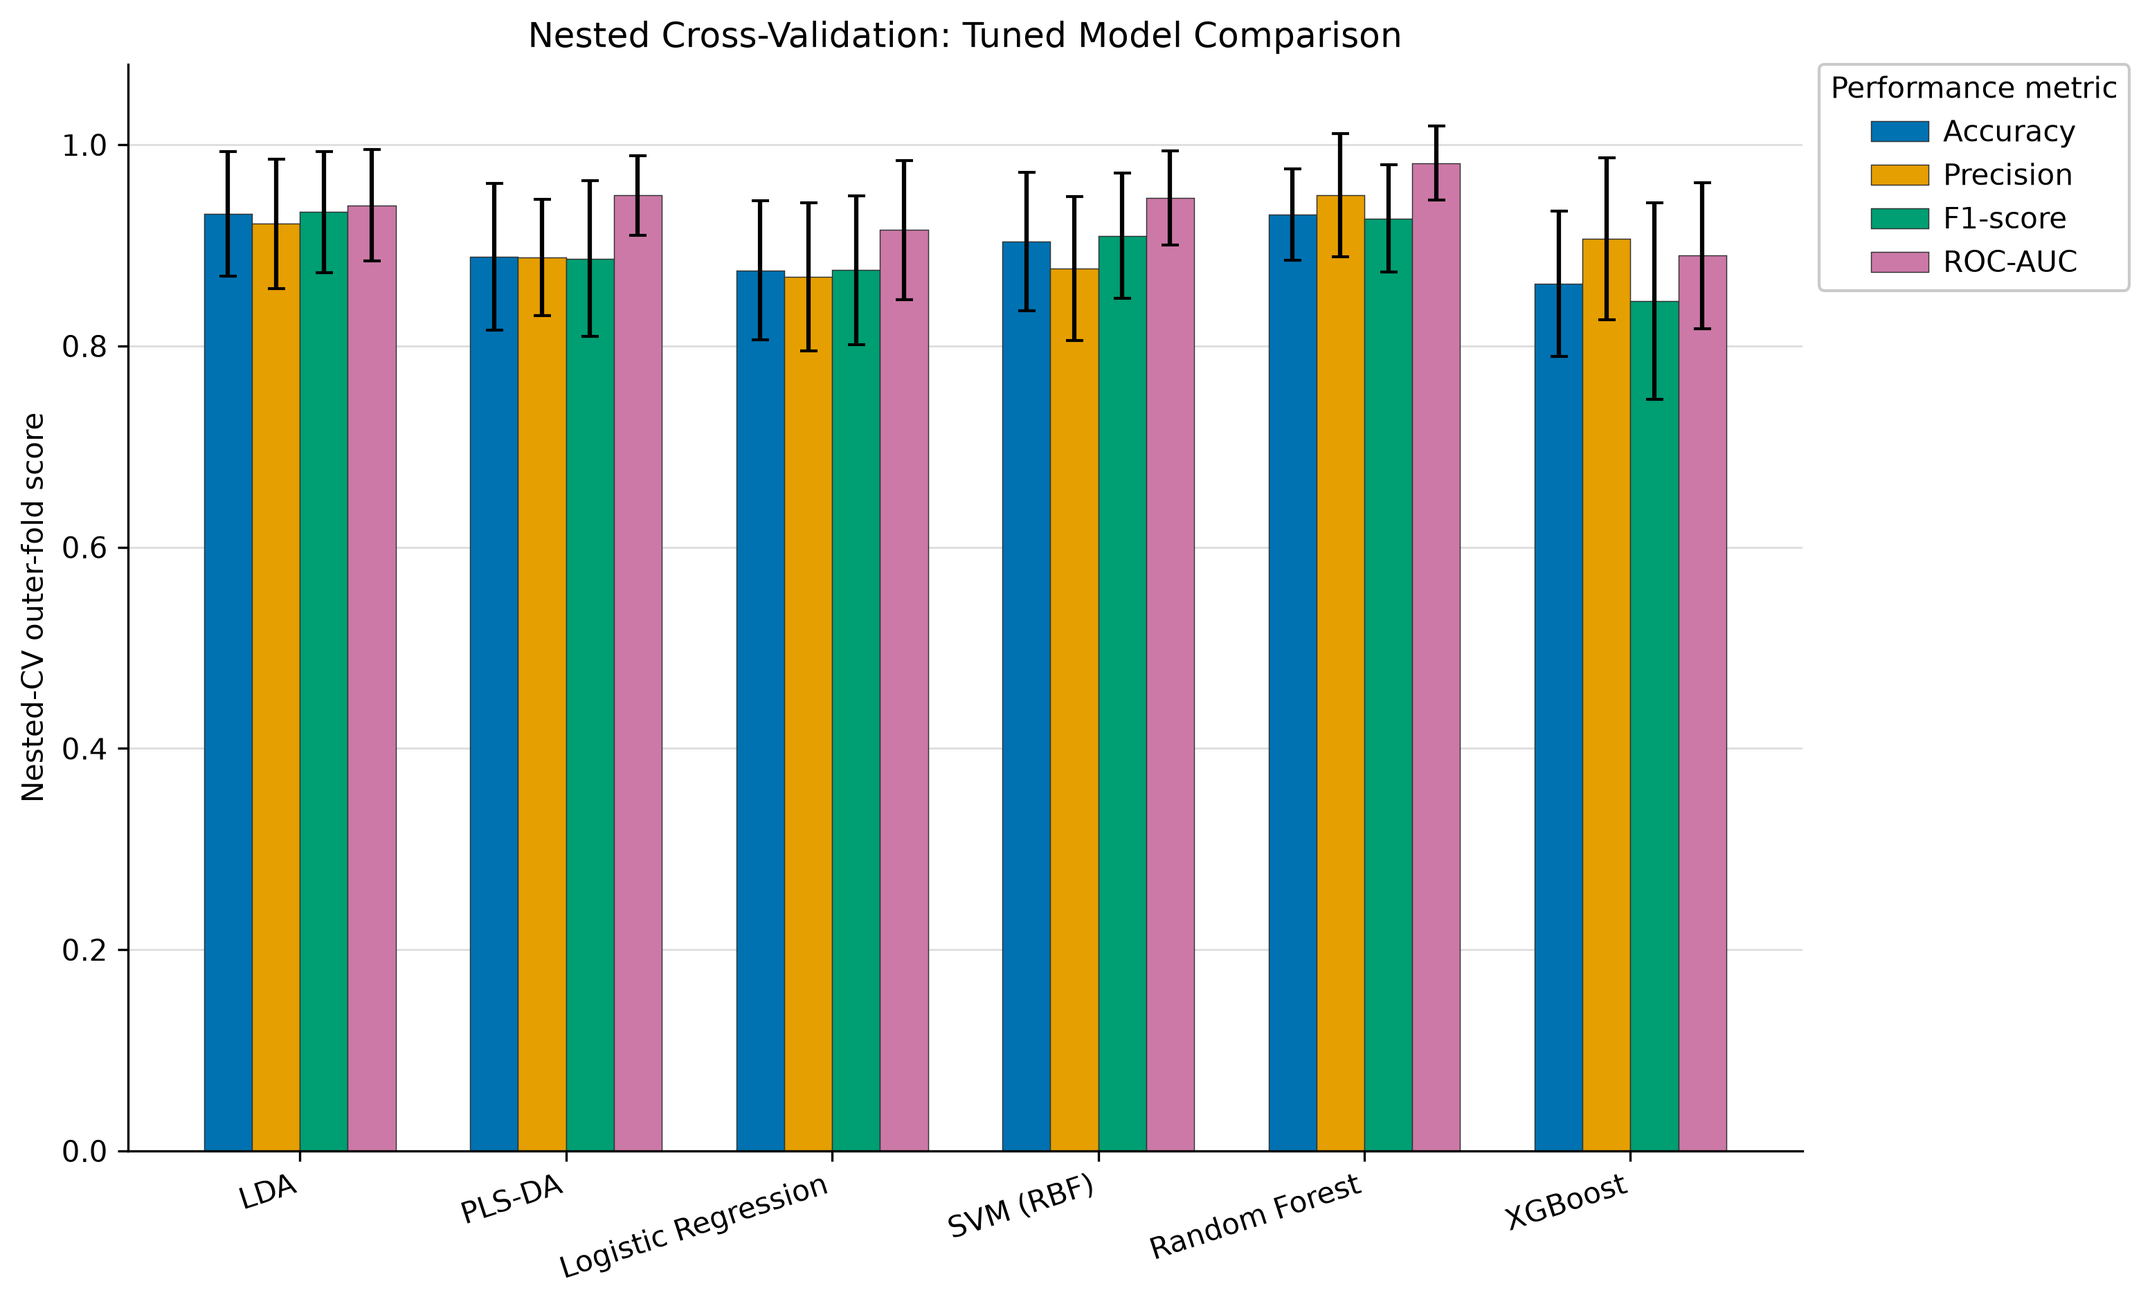
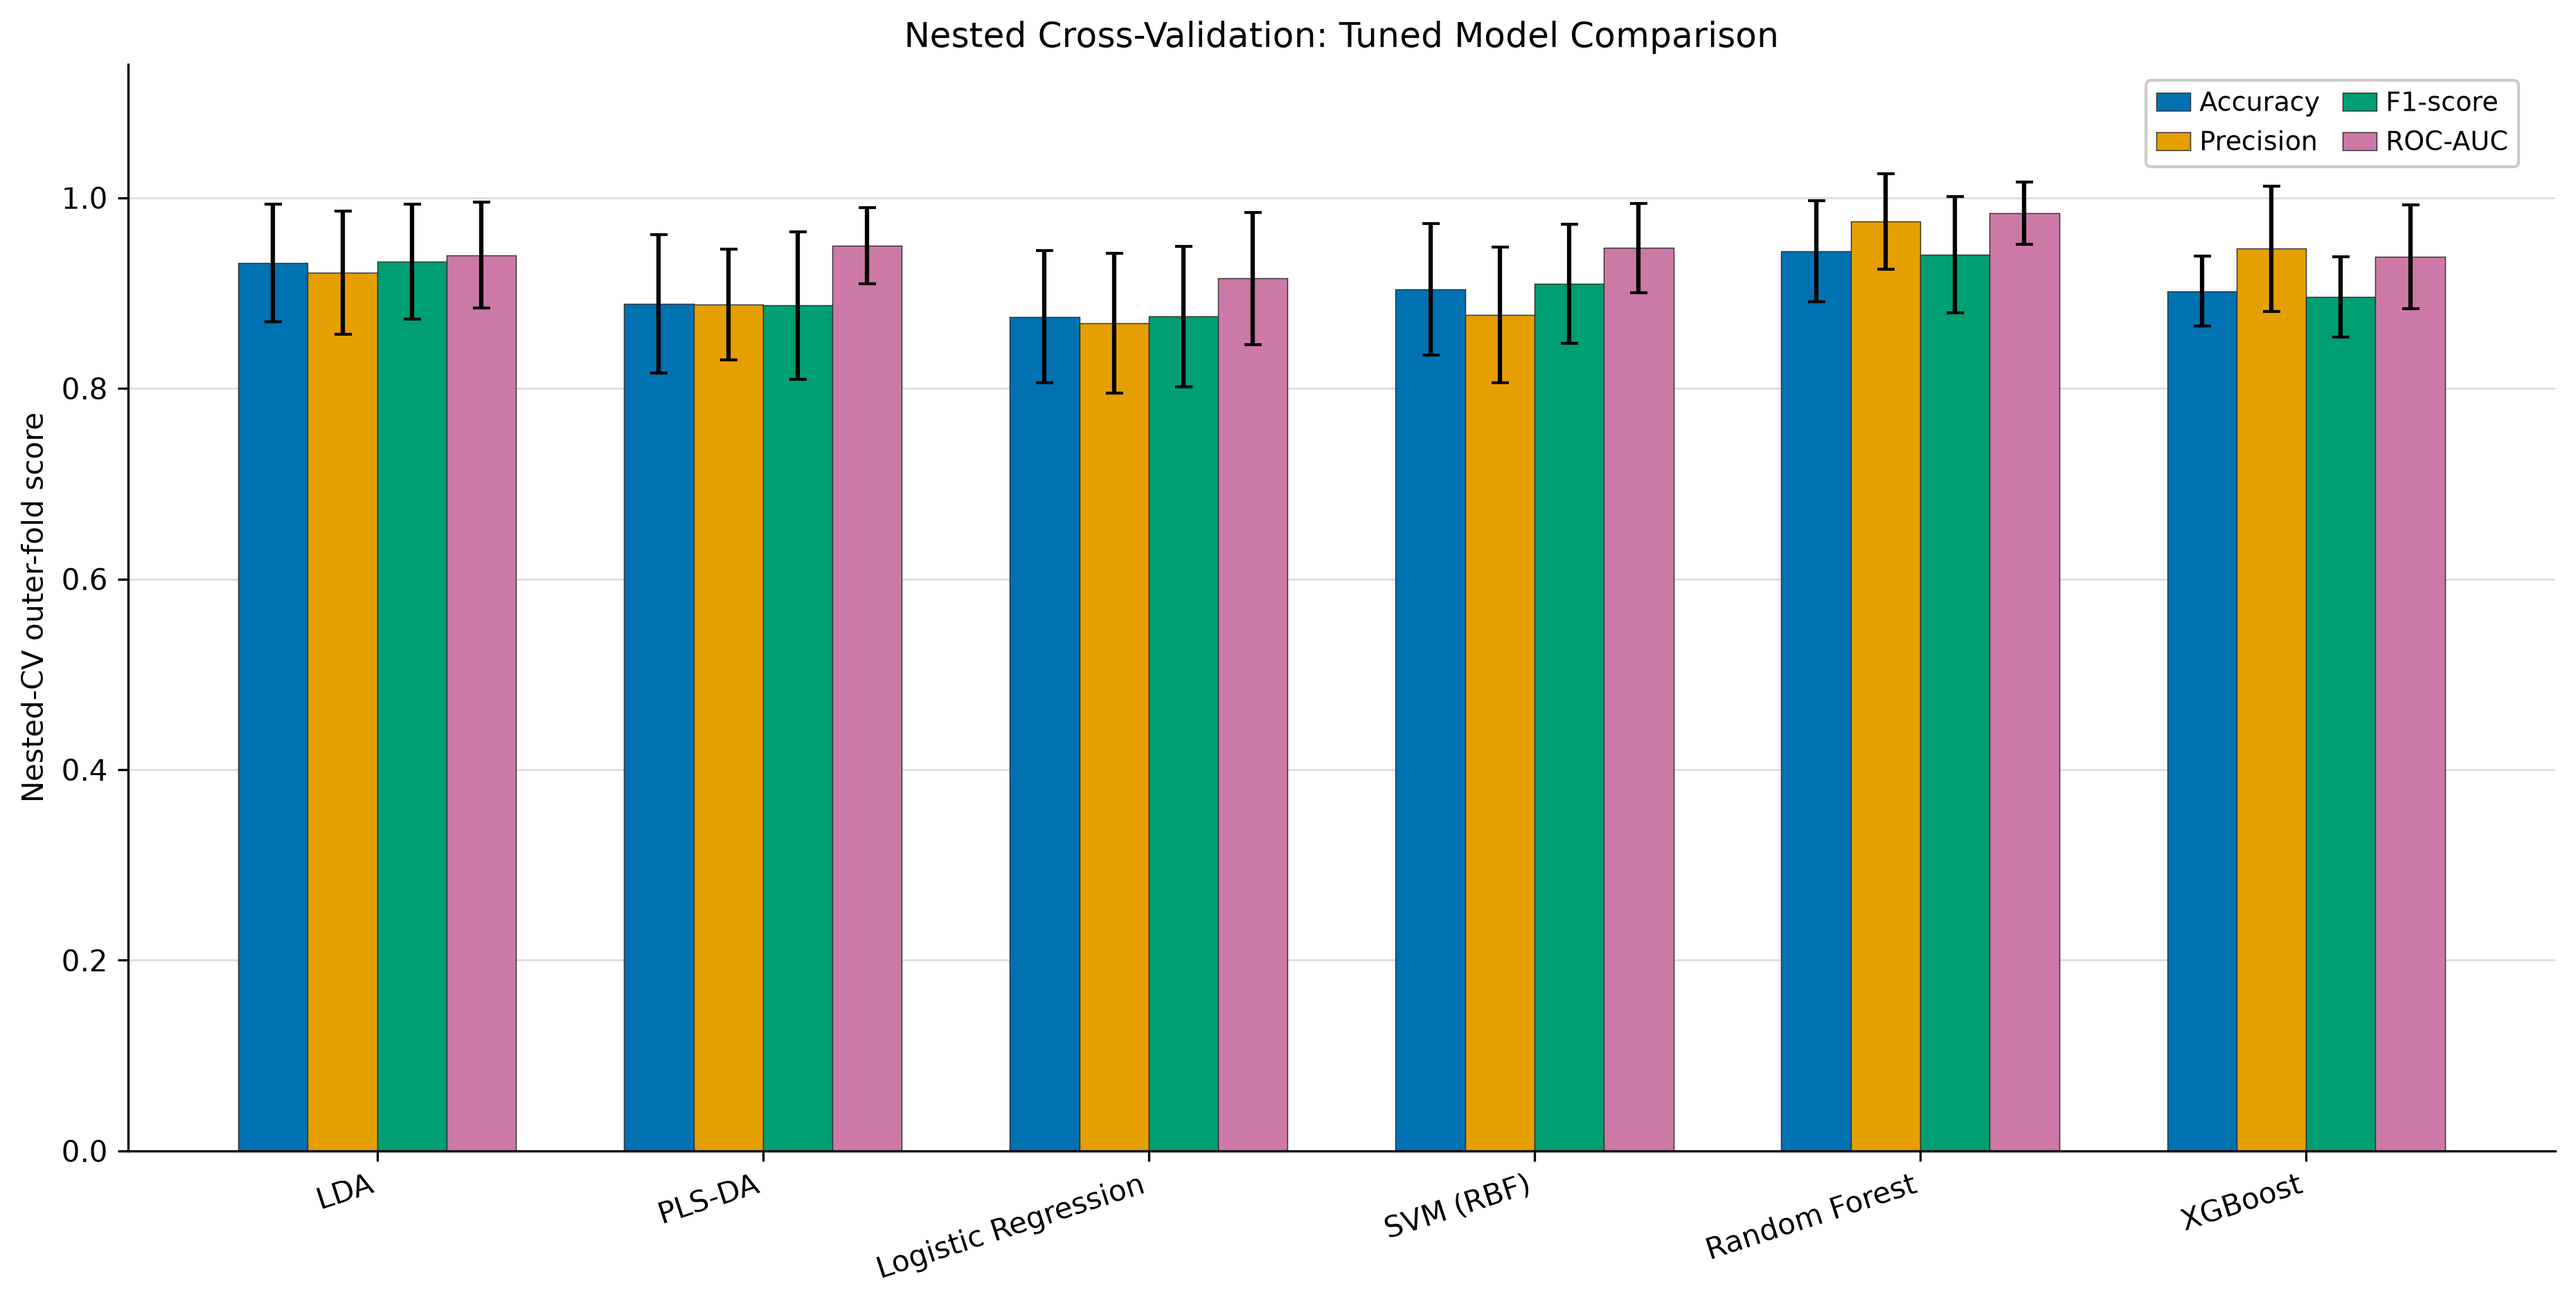
fig 4 changes

diff --git a/scripts/run_nested_cv_all_models.py b/scripts/run_nested_cv_all_models.py
@@ -44,18 +44,19 @@ def plot_nested_results(results):
             label=label,
         )
 
-    ax.set(ylim=(0, 1.08), ylabel="Nested-CV outer-fold score",
+    # Reserve a small in-panel band above the tallest error bar for the legend.
+    ax.set(ylim=(0, 1.14), ylabel="Nested-CV outer-fold score",
            title="Nested Cross-Validation: Tuned Model Comparison")
     ax.set_xticks(x, results["Model"], rotation=18, ha="right")
     ax.grid(axis="y", color="#D9D9D9", linewidth=0.7, alpha=0.85)
     ax.set_axisbelow(True)
     ax.spines[["top", "right"]].set_visible(False)
-    # Use the upper-right figure corner so the key never obscures a bar.
-    ax.legend(title="Performance metric", frameon=True, facecolor="white",
-              edgecolor="#BDBDBD", ncols=1, loc="upper left",
-              bbox_to_anchor=(1.01, 1.0), borderaxespad=0.0,
-              handletextpad=0.5)
-    fig.tight_layout(rect=(0, 0, 0.84, 1))
+    # Compact two-column key in the clear upper-right corner.
+    ax.legend(frameon=True, facecolor="white", edgecolor="#BDBDBD", ncols=2, loc="upper right",
+              bbox_to_anchor=(0.985, 0.985), borderaxespad=0.0,
+              handlelength=1.3, handletextpad=0.35, columnspacing=0.9,
+              fontsize=9)
+    fig.tight_layout()
     fig.savefig(ROOT / "figures" / "Figure4_NestedCVModelComparison.png",
                 dpi=300, bbox_inches="tight")
     plt.close(fig)
